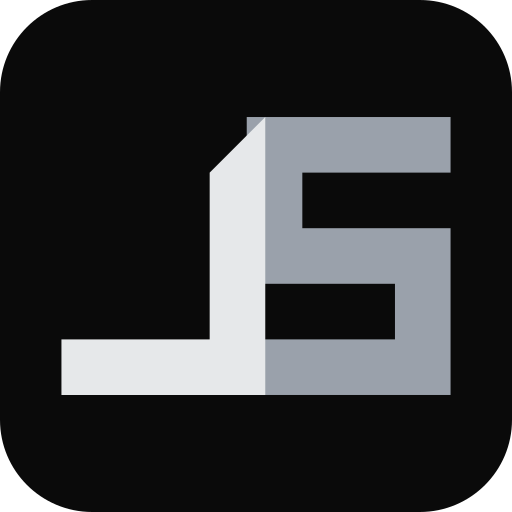
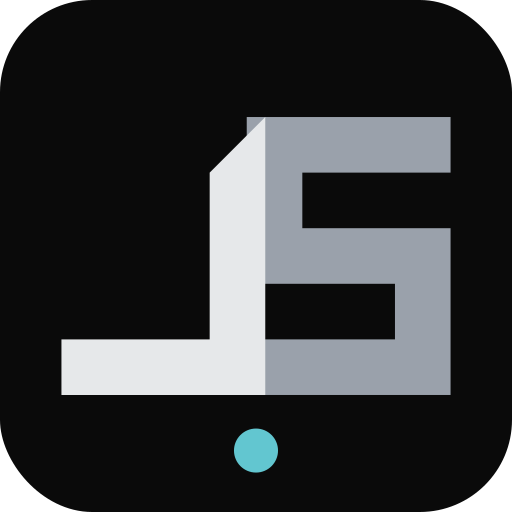
아이콘에 설치 방식별 표시 추가

diff --git a/scripts/build-favicon.py b/scripts/build-favicon.py
@@ -1,6 +1,6 @@
 #!/usr/bin/env python3
 """
-헤더의 JS 마크로 **파비콘과 앱 아이콘**을 굽는다.
+헤더의 JS 마크로 **바로가기·PWA·안드로이드 앱 아이콘**을 굽는다.
 
 [왜 생성기를 두나]
 
@@ -47,11 +47,11 @@ SVG 는 그대로 굽는다(`brand/favicon.svg`). 브랜드 자산 폴더의 파
 
 | 파일 | 무엇 | 생김새 |
 |---|---|---|
-| `brand/favicon.ico` | 탭 아이콘 (크기 여섯) | 둥근 타일 |
-| `brand/favicon.svg` | 그 벡터본 | 〃 |
-| `pwa-icon-192.png` · `pwa-icon-512.png` | 설치한 앱 아이콘 | 〃 |
+| `brand/favicon.ico` · `brand/favicon.svg` | 브라우저 탭·바로가기 | 둥근 타일 + 작은 금색 네모 |
+| `pwa-icon-192.png` · `pwa-icon-512.png` | PWA 설치 아이콘 | 둥근 타일 + 작은 청록색 점 |
 | `pwa-icon-maskable-512.png` | 안드로이드가 **제 모양으로 깎는** 것 | 네모 가득 + 마크를 작게 |
-| `apple-touch-icon.png` | iOS 홈 화면 (180) | 네모 가득 |
+| `apple-touch-icon.png` | iOS 홈 화면 (180) | 네모 가득 + 작은 청록색 점 |
+| `android-app/.../ic_launcher*.png` | 안드로이드 앱 | 작은 초록색 가로 표식 |
 
 **마스커블과 iOS 는 모서리를 둥글리지 않는다.** 그쪽은 플랫폼이 자기 모양으로
 (원·둥근네모·물방울) 깎으므로, 우리가 미리 둥글리면 **두 번 깎여** 테두리에
@@ -111,16 +111,32 @@ SIZES = [16, 32, 48, 64, 128, 256]
 # 그 원의 지름을 넘지 않는 폭이 65 언저리라 60 으로 잡았다.
 MASKABLE_MARK_W = 60
 
-# 굽는 PNG 들. (경로, 크기, 생김새)
+# 굽는 PNG 들. (경로, 크기, 생김새, 구분 표식)
 PNG_TARGETS = [
-    ("web/src/Shell/JSini.Web.Shell/wwwroot/pwa-icon-192.png", 192, "tile"),
-    ("web/src/Shell/JSini.Web.Shell/wwwroot/pwa-icon-512.png", 512, "tile"),
-    ("web/src/Shell/JSini.Web.Shell/wwwroot/pwa-icon-maskable-512.png", 512, "maskable"),
-    ("web/src/Shell/JSini.Web.Shell/wwwroot/apple-touch-icon.png", 180, "square"),
+    ("web/src/Shell/JSini.Web.Shell/wwwroot/pwa-icon-192.png", 192, "tile", "pwa"),
+    ("web/src/Shell/JSini.Web.Shell/wwwroot/pwa-icon-512.png", 512, "tile", "pwa"),
+    ("web/src/Shell/JSini.Web.Shell/wwwroot/pwa-icon-maskable-512.png", 512, "maskable", "pwa"),
+    ("web/src/Shell/JSini.Web.Shell/wwwroot/apple-touch-icon.png", 180, "square", "pwa"),
+    ("android-app/app/src/main/res/mipmap-xxxhdpi/ic_launcher.png", 512, "square", "android"),
+    ("android-app/app/src/main/res/mipmap-xxxhdpi/ic_launcher_foreground.png", 512, "maskable", "android"),
 ]
 
 
-def svg_for(size: int, style: str = "tile") -> str:
+def indicator_svg(kind: str, y: float) -> str:
+    """아이콘 출처를 구분하는 작은 하단 표식."""
+    if kind == "shortcut":
+        return f"""<rect x="43" y="{y - 6:.1f}" width="14" height="14" rx="4" fill="{COLOR_BG}" />
+  <rect x="46.5" y="{y - 2.5:.1f}" width="7" height="7" rx="1.5" fill="#e6b84a" />"""
+    if kind == "pwa":
+        return f"""<circle cx="50" cy="{y:.1f}" r="6.8" fill="{COLOR_BG}" />
+  <circle cx="50" cy="{y:.1f}" r="4.3" fill="#62c6d0" />"""
+    if kind == "android":
+        return f"""<rect x="41" y="{y - 4.5:.1f}" width="18" height="9" rx="4.5" fill="{COLOR_BG}" />
+  <rect x="44" y="{y - 2:.1f}" width="12" height="4" rx="2" fill="#79bd8b" />"""
+    raise ValueError(f"알 수 없는 아이콘 표식: {kind}")
+
+
+def svg_for(size: int, style: str = "tile", marker: str | None = None) -> str:
     """
     그 크기·생김새의 SVG 한 장.
 
@@ -142,22 +158,25 @@ def svg_for(size: int, style: str = "tile") -> str:
     x = (TILE - mark_w) / 2
     y = (TILE - mark_w * VIEW_H / VIEW_W) / 2
 
+    marker_y = 81.5 if style == "maskable" else 88
+    marker_markup = f"\n  {indicator_svg(marker, marker_y)}" if marker else ""
+
     return f"""<svg xmlns="http://www.w3.org/2000/svg" viewBox="0 0 {TILE} {TILE}" width="{size}" height="{size}">
   <rect width="{TILE}" height="{TILE}" rx="{radius}" ry="{radius}" fill="{COLOR_BG}" />
   <g transform="translate({x:.3f},{y:.3f}) scale({scale:.6f})">
       <path d="{S_PATH}" fill="{COLOR_S}" />
       <path d="{J_PATH}" fill="{COLOR_J}" />
-  </g>
+  </g>{marker_markup}
 </svg>
 """
 
 
-def render(size: int, style: str = "tile") -> bytes:
+def render(size: int, style: str = "tile", marker: str | None = None) -> bytes:
     """SVG 를 그 크기의 PNG 로. **크기마다 벡터에서 새로 그린다** — 큰 것
     하나를 줄이면 16px 에서 획이 반 픽셀에 걸쳐 흐려진다."""
     out = subprocess.run(
         ["rsvg-convert", "-w", str(size), "-h", str(size), "-f", "png"],
-        input=svg_for(size, style).encode("utf-8"),
+        input=svg_for(size, style, marker).encode("utf-8"),
         capture_output=True,
         check=True,
     )
@@ -197,7 +216,7 @@ def main() -> int:
     brand = root / "web/src/Shared/JSini.Web.Components/wwwroot/brand"
     target = brand / "favicon.ico"
 
-    rendered = {size: render(size) for size in SIZES}
+    rendered = {size: render(size, marker="shortcut") for size in SIZES}
 
     # 크기가 맞는지 확인하고 굽는다. rsvg 가 반올림으로 1px 어긋나면 ICO
     # 목록과 실제 그림이 달라지고, 그때 브라우저는 **말없이 다른 크기를
@@ -213,7 +232,7 @@ def main() -> int:
     # 벡터본도 함께 굽는다. **크기를 적지 않는다** — 쓰는 쪽이 정한다.
     vector = brand / "favicon.svg"
     vector.write_text(
-        svg_for(256).replace(' width="256" height="256"', "")
+        svg_for(256, marker="shortcut").replace(' width="256" height="256"', "")
                     .replace("<svg ", '<svg role="img" ', 1)
                     .replace("<rect", "<title>JSINI</title>\n  <rect", 1),
         encoding="utf-8")
@@ -221,13 +240,12 @@ def main() -> int:
     print(f"구웠다: {target.relative_to(root)} ({target.stat().st_size:,} 바이트, {len(SIZES)}장)")
     print(f"구웠다: {vector.relative_to(root)}")
 
-    # 앱 아이콘. **자리를 옮기지 않는다** — 매니페스트(`manifest.webmanifest`)와
-    # `<link rel="apple-touch-icon">` 이 이 이름을 가리킨다. 이름을 바꾸면
-    # 설치된 앱의 아이콘이 조용히 빈칸이 된다.
-    for rel, size, style in PNG_TARGETS:
+    # 매니페스트·iOS 링크·안드로이드 리소스가 가리키는 파일 이름은 바꾸지 않는다.
+    # 참조가 끊기면 설치된 앱 아이콘이 조용히 빈칸이 된다.
+    for rel, size, style, marker in PNG_TARGETS:
         path = root / rel
-        path.write_bytes(render(size, style))
-        print(f"구웠다: {rel.split('/')[-1]} ({size}px, {style})")
+        path.write_bytes(render(size, style, marker))
+        print(f"구웠다: {rel} ({size}px, {style}, {marker})")
 
     return 0
 
